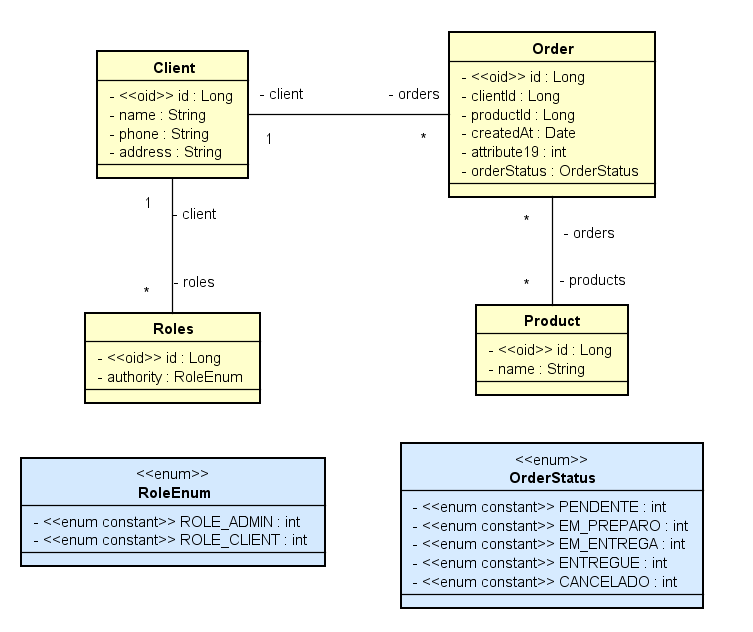
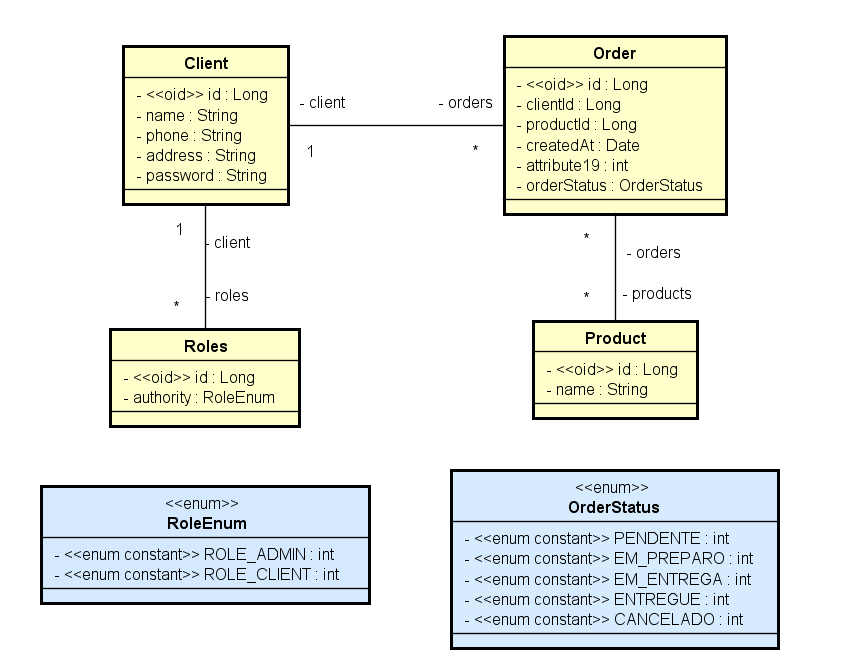
Client entity

diff --git a/src/main/java/io/github/aplaraujo/entities/Client.java b/src/main/java/io/github/aplaraujo/entities/Client.java
@@ -1,0 +1,23 @@
+package io.github.aplaraujo.entities;
+
+import jakarta.persistence.*;
+import lombok.AllArgsConstructor;
+import lombok.Getter;
+import lombok.NoArgsConstructor;
+import lombok.Setter;
+
+@Entity
+@Table(name = "tb_client")
+@NoArgsConstructor
+@AllArgsConstructor
+@Getter
+@Setter
+public class Client {
+    @Id
+    @GeneratedValue(strategy = GenerationType.IDENTITY)
+    private Long id;
+    private String name;
+    private String phone;
+    private String address;
+    private String password;
+}
